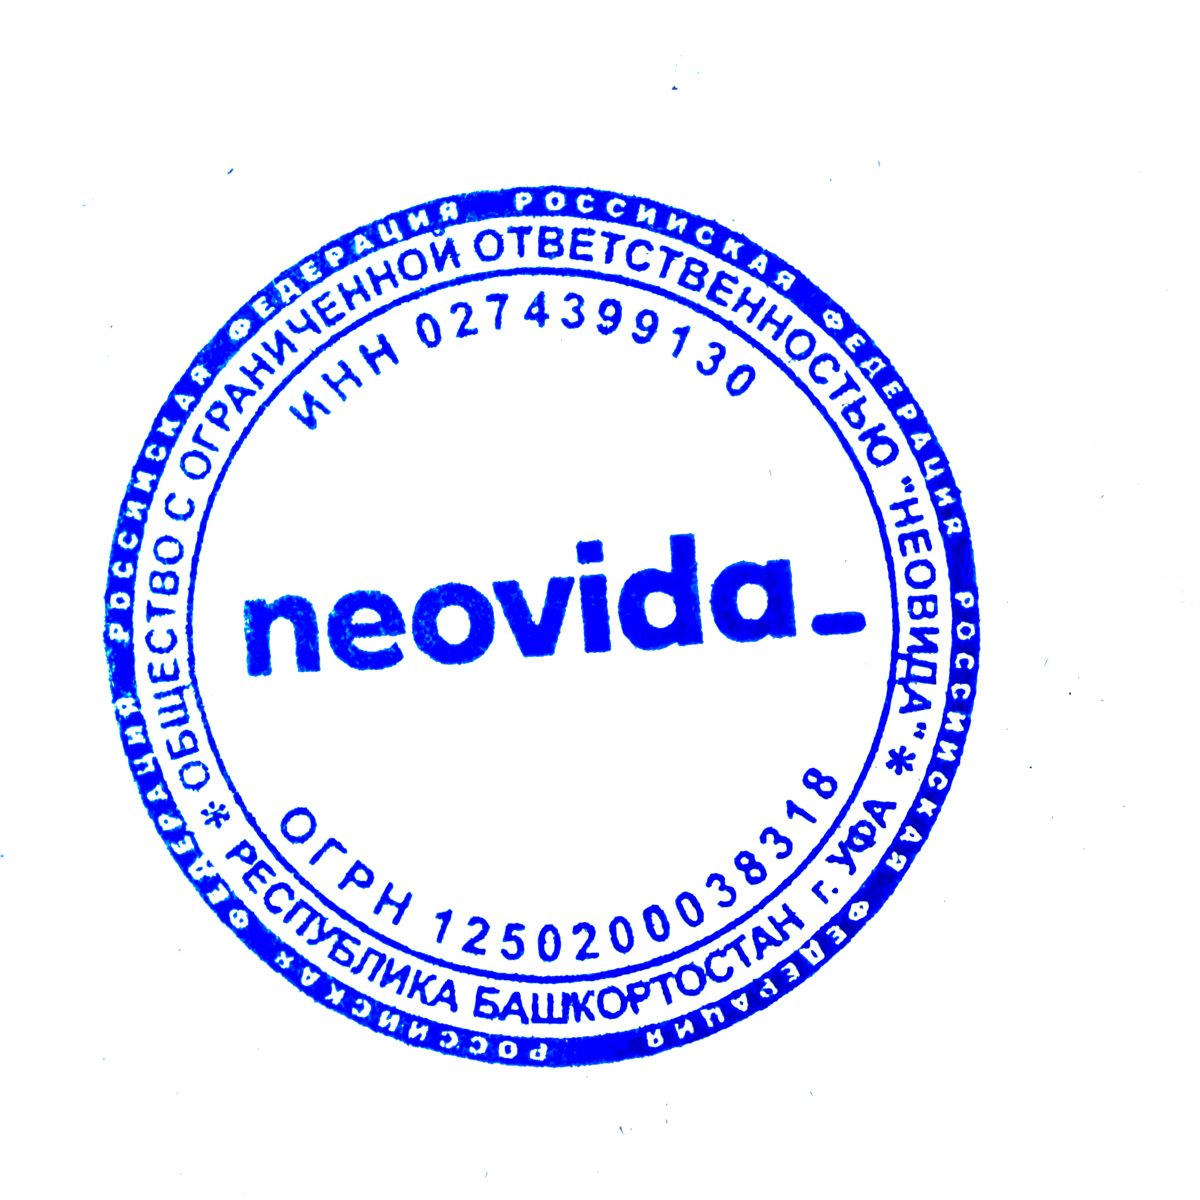
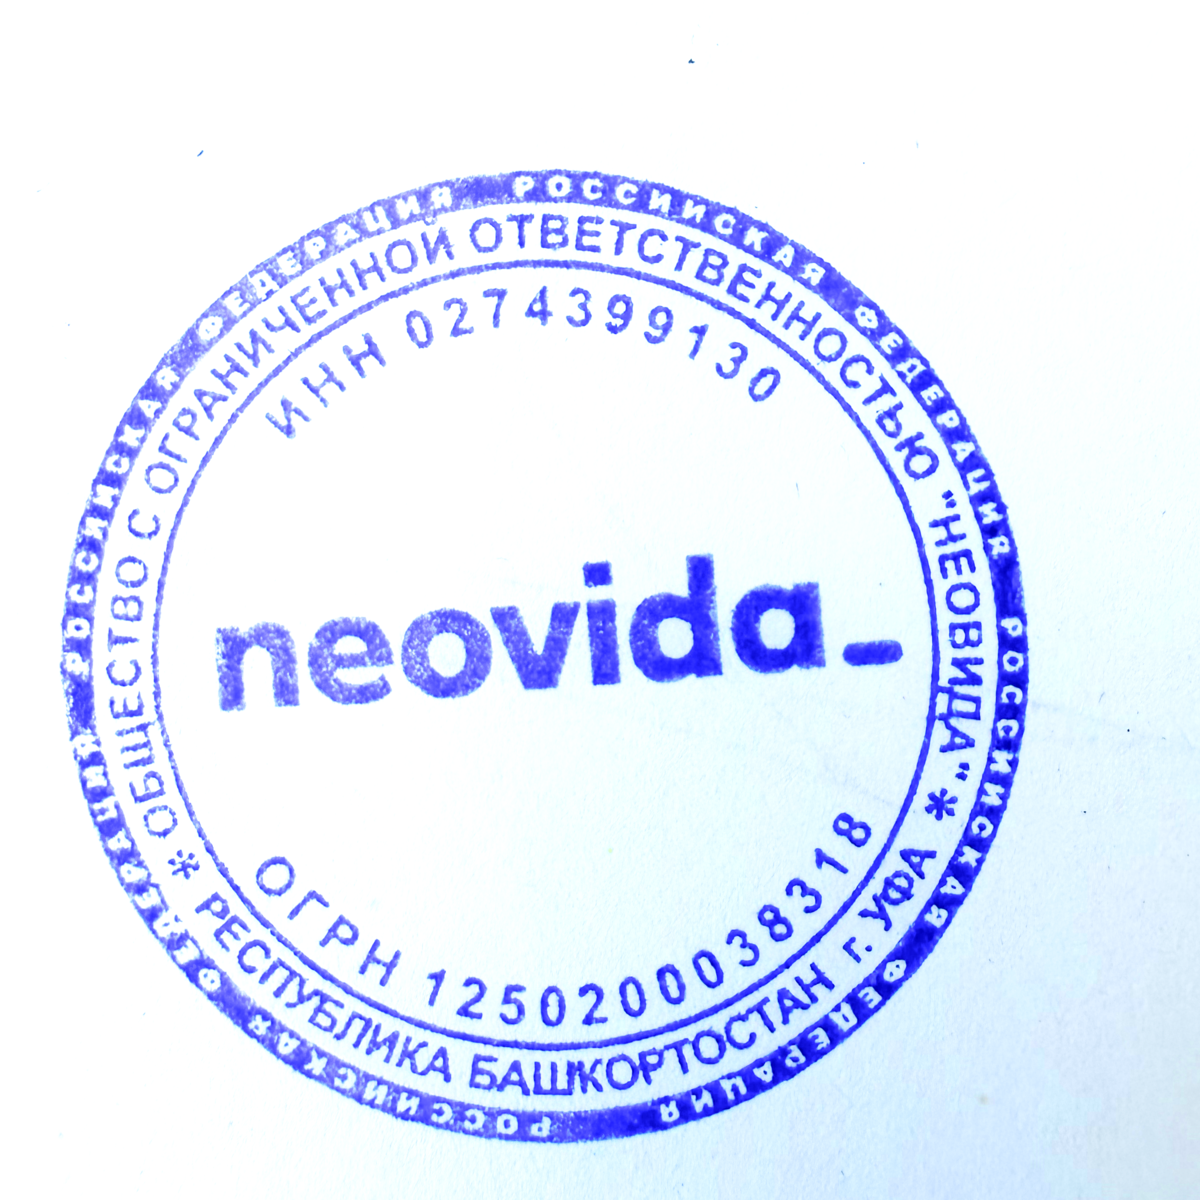
fix(cert): печать через blue-channel masking — абсолютно прозрачный фон, без серых шумов

diff --git a/online/lesson-8/certificate/index.html b/online/lesson-8/certificate/index.html
@@ -144,11 +144,11 @@
   .sig-name { font-size: 13px; font-weight: 800; color: var(--ink); letter-spacing: 0.5px; }
   .sig-role { font-size: 11px; color: var(--ink-60); margin-top: 1mm; letter-spacing: 0.5px; }
 
-  /* === Печать (просто IMG, без всяких контейнеров) === */
+  /* === Печать (просто IMG, без всяких контейнеров и квадратной height) === */
   .stamp-img {
     display: block;
-    width: 35mm; height: 35mm;
-    object-fit: contain;
+    width: 35mm;
+    height: auto;
     pointer-events: none;
   }
   /* Placeholder если PNG не загрузился */
